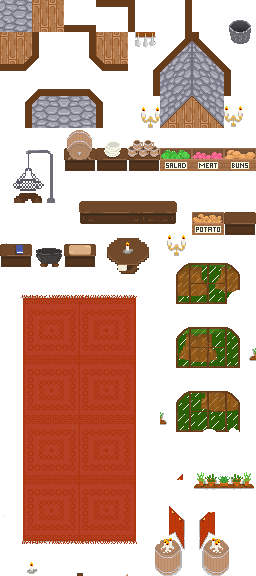
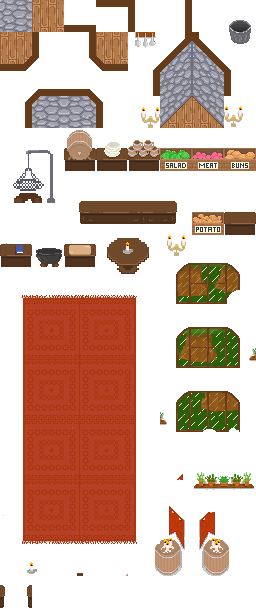
Changes: - spawn logic changed -> now in 30s intervalls and depending on difficulty total number of guests changed - beginning to add despawn animation, but logic error right now - bar has a slit now in the middle, but collision and light fixes missing
Coming soon:
- random assingned tables
- fixes for bar ligth and collision

diff --git a/SoftwareProjekt2024/Components/Guest.cs b/SoftwareProjekt2024/Components/Guest.cs
@@ -13,9 +13,9 @@ namespace SoftwareProjekt2024.Components;
 
 internal class Guest : Component
 {
-    Player _ogerCook;
-    AnimationManager _guestAnimationManager;
-    AnimationManager _spawnAnimationManager;
+    readonly Player _ogerCook;
+    readonly AnimationManager _guestAnimationManager;
+    readonly AnimationManager _spawnAnimationManager;
     public PerspectiveManager _perspectiveManager;
 
     public Texture2D _chosenTexture;
@@ -43,6 +43,7 @@ internal class Guest : Component
 
     private bool _drawGuest;
     private bool _drawSpawn;
+    private bool _drawDespawn;
 
     public static List<Texture2D> _availableGuests;
     public static int _totalGuestNumber;
@@ -73,6 +74,7 @@ internal class Guest : Component
                 };
         }
 
+
         _font = Game1.ContentManager.Load<BitmapFont>("Fonts/font_new"); // load font from content-manager using monogame.ext importer/exporter
 
         _totalGuestNumber++;
@@ -88,6 +90,7 @@ internal class Guest : Component
         hasFinishedEating = false;
         _drawGuest = false;
         _drawSpawn = true;
+        _drawDespawn = false;
 
         _chosenTexture = ChooseTexture(CreateRandomIntegerTexture());
     }
@@ -115,9 +118,24 @@ internal class Guest : Component
     {
         _guestAnimationManager.Update();
 
-        if (_spawnAnimationManager.activeFrame == 4) { _drawGuest = true; }
+        if (_spawnAnimationManager.activeFrame == 4)
+        {
+            _drawGuest = true;
+        }
 
-        if (_spawnAnimationManager.activeFrame == 6) { _drawSpawn = false; }
+        if (_spawnAnimationManager.activeFrame == 6 && _drawSpawn)
+        {
+            _drawSpawn = false;
+            _spawnAnimationManager.ResetAnimation();
+        }
+
+        //STARTED DESPAWN ANIMATION BUT STUCK 
+        if (_spawnAnimationManager.activeFrame == 6 && _drawDespawn)
+        {
+            _drawDespawn = false;
+
+
+        }
 
         _spawnAnimationManager.Update();
     }
@@ -243,7 +261,7 @@ internal class Guest : Component
         return (points, fame);
     }
 
-    public void giveFeedbackAndLeave(Player _ogerCook)
+    public void giveFeedback(Player _ogerCook)
     {
         if (order != null)
         {
@@ -255,13 +273,21 @@ internal class Guest : Component
 
             Debug.WriteLine($"Der Spieler hat {rewardPoints} Punkte erhalten.");
             Debug.WriteLine($"Der Spieler hat jetzt insgesamt {_ogerCook.totalPoints} Punkte und {_ogerCook.famePoints} Ruhm.");
+
+            //_drawDespawn = true;
+
+            leave();
         }
         //add visual guest point feedback here
+
+    }
+
+    public void leave()
+    {
         _perspectiveManager.activeOrders.Remove(order);
         _totalGuestNumber--;
         assignedTable.guest = null;
         _perspectiveManager._guests.Remove(this);
-        //Debug.WriteLine(_perspectiveManager._guests.Count);
         _drawGuest = false;
         _availableGuests.Add(this._chosenTexture);
     }
@@ -291,7 +317,7 @@ internal class Guest : Component
             }
         }
 
-        if (_drawSpawn)
+        if (_drawSpawn || _drawDespawn)
         {
             _spriteBatch.Draw(
             spawnAnimationTexture,                       //texture 

diff --git a/SoftwareProjekt2024/Managers/InteractionManager.cs b/SoftwareProjekt2024/Managers/InteractionManager.cs
@@ -5,7 +5,6 @@ using SoftwareProjekt2024.Components;
 using SoftwareProjekt2024.Components.StaticObjects;
 using SoftwareProjekt2024.Managers;
 using System.Collections.Generic;
-using System.Diagnostics;
 
 namespace SoftwareProjekt2024;
 
@@ -118,8 +117,8 @@ internal class InteractionManager
      * Plates: 14
      * Bierkrug: 15
      * Mülleimer: 16
-     * Barflächen 0-12 oben : 20 - 32
-     * Barflächen 0-12 unten : 40 - 52
+     * Barflächen 0-12 oben : 20 - 32 ohne 26
+     * Barflächen 0-12 unten : 40 - 52 ohne 46
      * Tisch 1: 60
      * Tisch 2: 61
      * Tisch 3: 62
@@ -139,17 +138,17 @@ internal class InteractionManager
                 _allowedInteraction = false;
                 _interactionTextline = null;
                 break;
-            
+
             case 1:
                 CookBook.HandleInteraction(this, _inputManager);
                 break;
-            
+
             case >= 2 and <= 3:
                 int workstationID = tileID - 2;
                 Workstation workstation = _perspectiveManager._workstations[workstationID];
                 workstation.HandleInteraction(_perspectiveManager, positionWhilePickedUp, _ogerCook, this, _inputManager);
                 break;
-            
+
             case 4:
                 BeerBarrel.HandleInteraction(_ogerCook, positionWhilePickedUp, this, _inputManager);
                 break;
@@ -167,7 +166,7 @@ internal class InteractionManager
                 Cuttingboard cuttingBoard = _perspectiveManager._cuttingBoards[cuttingBoardID];
                 cuttingBoard.HandleInteraction(_ogerCook, positionWhilePickedUp, this, _inputManager);
                 break;
-            
+
             case 10:
                 PotatoCrate.HandleInteraction(_perspectiveManager, positionWhilePickedUp, _ogerCook, this, _inputManager);
                 break;
@@ -196,7 +195,7 @@ internal class InteractionManager
                 Trash.HandleInteraction(_ogerCook, _perspectiveManager, positionWhilePickedUp, this, _inputManager);
                 break;
 
-            case >= 20 and <= 32:
+            case >= 20 and <= 31:
                 int obereBarflächenID = tileID - 20;
                 Bar obereBarfläche = _perspectiveManager._barFlächen[obereBarflächenID];
                 obereBarfläche.HandleInteraction(_perspectiveManager, positionWhilePickedUp, _ogerCook, this, _inputManager);

diff --git a/SoftwareProjekt2024/Managers/GameplayLoopManager.cs b/SoftwareProjekt2024/Managers/GameplayLoopManager.cs
@@ -12,9 +12,11 @@ namespace SoftwareProjekt2024.Managers
 
         Stopwatch _timer;
 
-        public int timebetweenNextGuest = 3;   //in seconds
+        public int timebetweenNextGuest = 30;   //in seconds
         public bool newGuestAddedFlag;
-        Player _ogerCook;
+        readonly Player _ogerCook;
+
+        int maxGuestPerDifficulty;
 
         public GameplayLoopManager(PerspectiveManager perspectiveManager, Stopwatch timer, Player ogerCook)
         {
@@ -22,14 +24,18 @@ namespace SoftwareProjekt2024.Managers
             _timer = timer;
             newGuestAddedFlag = false;
             _ogerCook = ogerCook;
+
+            maxGuestPerDifficulty = 3;
         }
 
         public void Update()
         {
+            HowManyGuests(_ogerCook.GetDifficulty()); //calculates how many guests are allowed to spawn at the same time, depending on the deifficulty 
+
             int timeInSeconds = (int)_timer.ElapsedMilliseconds / 1000;
             if (timeInSeconds % timebetweenNextGuest == 0 && !newGuestAddedFlag)
             {
-                if (Guest._totalGuestNumber < 8 && tableAvailable()) //only as many guests as table 
+                if (Guest._totalGuestNumber < 8 && tableAvailable() && Guest._totalGuestNumber < maxGuestPerDifficulty) //only as many guests as difficulty allows, but max. 8
                 {
                     addNewGuest();
                     newGuestAddedFlag = true;
@@ -52,6 +58,25 @@ namespace SoftwareProjekt2024.Managers
                 return true;
             }
             return false;
+        }
+
+        public void HowManyGuests(int difficultiy)
+        {
+            switch (difficultiy)
+            {
+                case 1:
+                    maxGuestPerDifficulty = 3;
+                    break;
+                case 2:
+                    maxGuestPerDifficulty = 4;
+                    break;
+                case 3:
+                    maxGuestPerDifficulty = 6;
+                    break;
+                case 4:
+                    maxGuestPerDifficulty = 8;
+                    break;
+            }
         }
 
         public void addNewGuest()

diff --git a/SoftwareProjekt2024/Managers/TileManager.cs b/SoftwareProjekt2024/Managers/TileManager.cs
@@ -124,7 +124,7 @@ public class TileManager
         //DrawLayer(spriteBatch, objectsLayer, textureAtlas, displayTileSize, numTilesPerRow, pixelTileSize);
         //DrawLayer(spriteBatch, dekoLayerObjects, textureAtlas, displayTileSize, numTilesPerRow, pixelTileSize);
         DrawLayer(spriteBatch, dekoLayerNonObjects, textureAtlas, displayTileSize, numTilesPerRow, pixelTileSize);
-        DrawLayer(spriteBatch, shadowLayer, shadowAtlas, displayTileSize, 7, pixelTileSize);
+        DrawLayer(spriteBatch, shadowLayer, shadowAtlas, displayTileSize, numTilesPerRow, pixelTileSize);
         //DrawLayer(spriteBatch, collisionLayer, hitboxes, displayTileSize, 1, pixelTileSize); // hitboxes only has one tile per row
         //DrawLayer(spriteBatch, interactionLayer, hitboxes, displayTileSize, 1, pixelTileSize); // hitboxes only has one tile per row
     }
@@ -335,6 +335,25 @@ public class TileManager
                     };
 
                     penumbra.Lights.Add(BehindKartoffelBox);
+                    break;
+                case 144:
+                    _perspectiveManager._nonInteractables.Add(new Bar_Middle(textureAtlas, new Vector2(dest.X, dest.Y), dest, src, _perspectiveManager));
+
+                    Hull BarHull_middle = new Hull(new Vector2[]
+                      {
+                        new Vector2(dest.X, dest.Y + 20),
+                        new Vector2(dest.X + dest.Width - 20, dest.Y + 20),
+                        new Vector2(dest.X + dest.Width - 20, dest.Y + dest.Height),
+                        new Vector2(dest.X, dest.Y + dest.Height)
+                      }
+                          );
+
+                    if (!BarHull_middle.Valid)
+                    {
+                        Console.WriteLine("Hull invalid!");
+                    }
+                    else penumbra.Hulls.Add(BarHull_middle);
+
                     break;
             }
         }

diff --git a/SoftwareProjekt2024/Components/StaticObjects/Bar_Middle.cs b/SoftwareProjekt2024/Components/StaticObjects/Bar_Middle.cs
@@ -1,0 +1,14 @@
+using Microsoft.Xna.Framework;
+using Microsoft.Xna.Framework.Graphics;
+using SoftwareProjekt2024.Managers;
+
+namespace SoftwareProjekt2024.Components.StaticObjects;
+
+internal class Bar_Middle : StaticObject
+{
+    public Bar_Middle(Texture2D texture, Vector2 position, Rectangle _dest, Rectangle _src, PerspectiveManager perspectiveManager)
+        : base(texture, position, _dest, _src, perspectiveManager)
+    {
+
+    }
+}

diff --git a/SoftwareProjekt2024/Components/StaticObjects/Table.cs b/SoftwareProjekt2024/Components/StaticObjects/Table.cs
@@ -79,7 +79,7 @@ internal class Table : StaticObject
                 interactionManager._allowedInteraction = true;
                 if (inputManager.pressedE)
                 {
-                    guest.giveFeedbackAndLeave(_ogerCook);
+                    guest.giveFeedback(_ogerCook);
                 }
             }
             else
